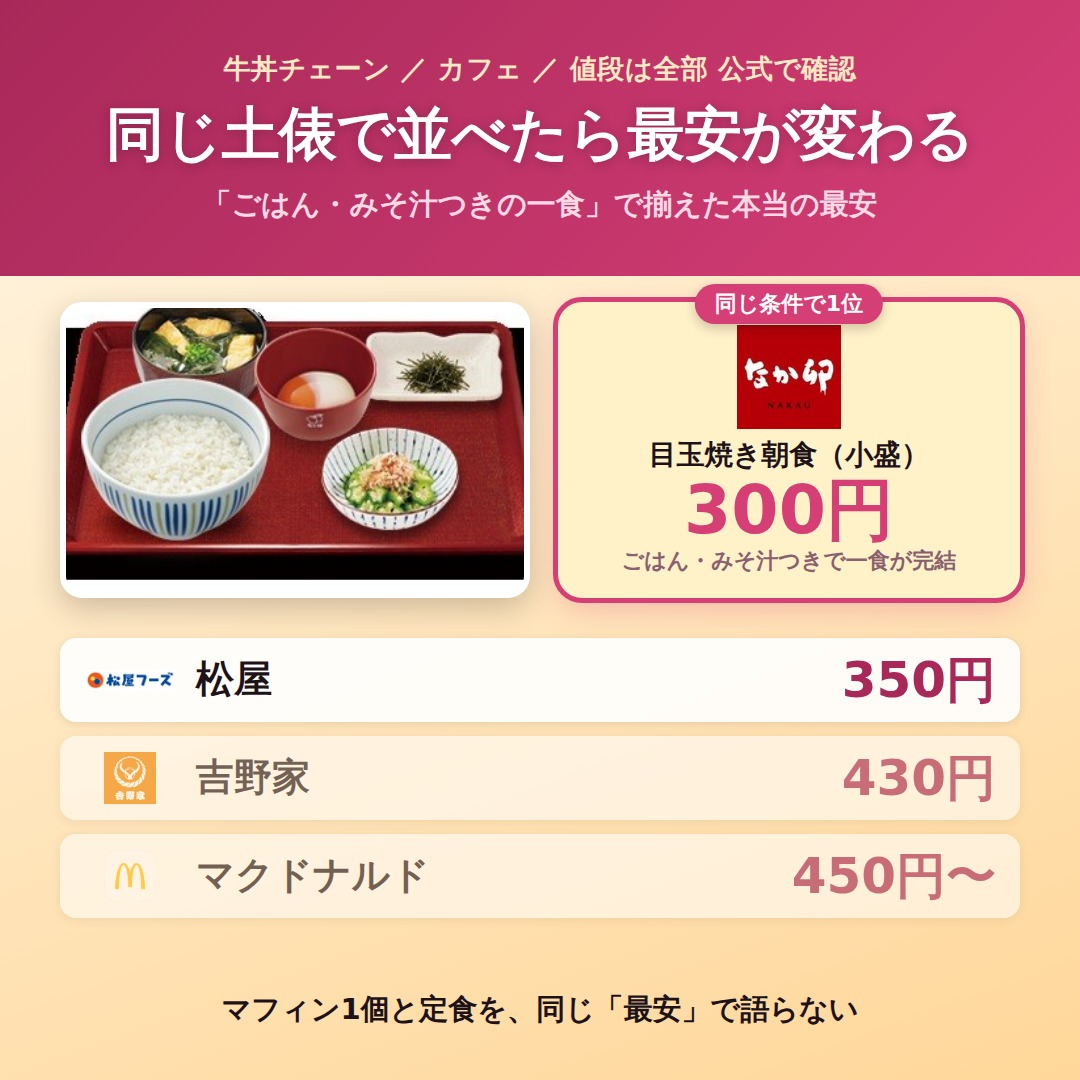
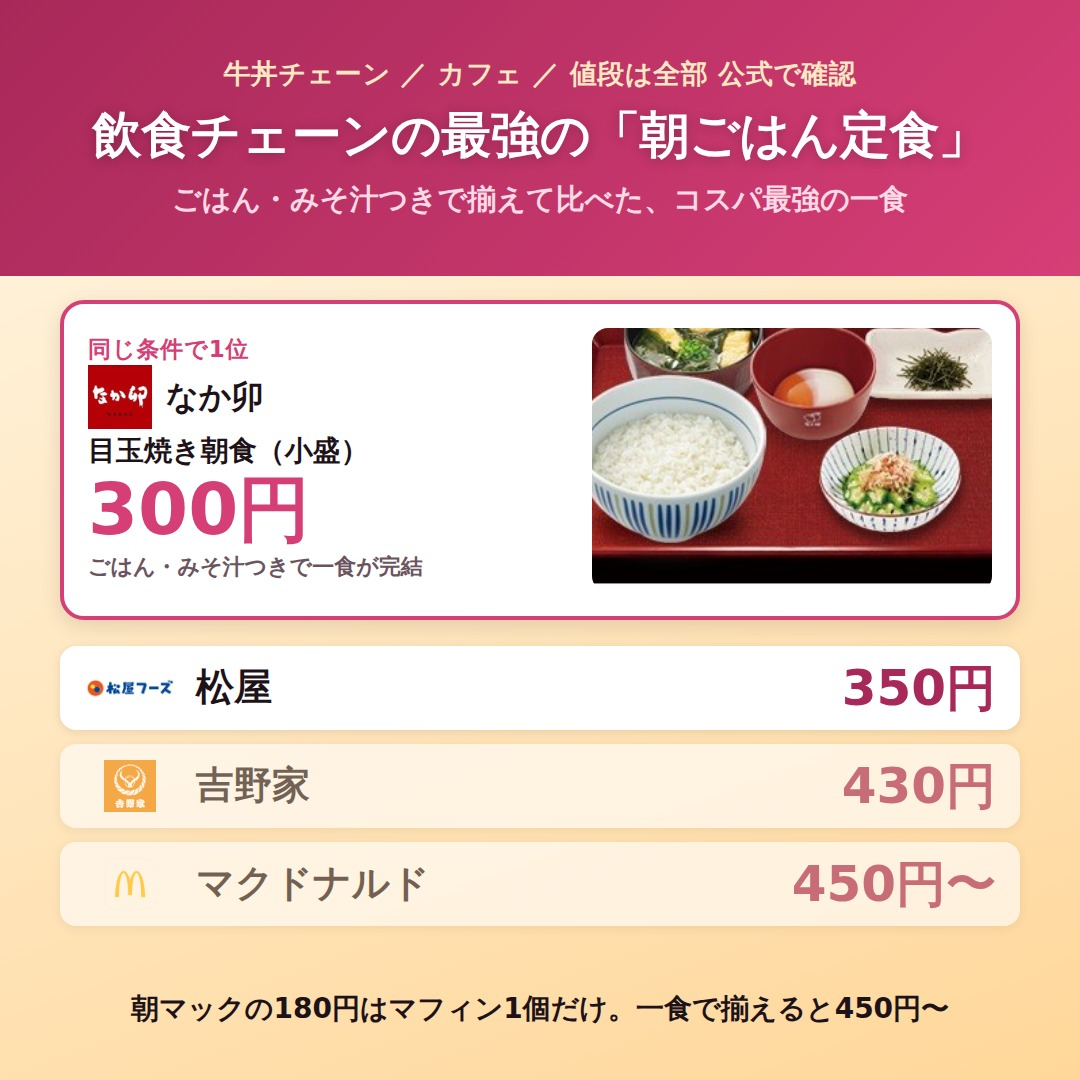
feat: 告知の表紙を作り直す（版A に確定・コメント 4 件）
レビューページのコメント 4 件（全部 `cover-a.jpg`）と、版A 採用の指示に対応した。

## 4 件の内訳

    同じ土俵で〜 は言いたいことが不明
    → 飲食チェーンの最強の「朝ごはん定食」 にして

    最安を知りたいわけじゃなくて、コスパがいい朝食を知りたいんだよ

    デザインがダサすぎる／左右のパーツを交換して／他のサービスと一致してないでしょ
    情報設計ちゃんとして／松屋のカードと同じように、大きな白いカードの中に
    ロゴや文章など全てまとめるようデザインにして
    カード内は色つけなくていいよ。枠線つけてるんだから白の背景で十分

    これ言いたいことわからないから、文章変更して（下端の一文）

## 直したところ

- **見出しを読む人の言葉にした。** 「同じ土俵で並べた」はこちらが何をしたかの説明
- **最安 → コスパ。** 帯の副題を差し替えた
- **1 位も 2 位以下と同じ白いカードにした。** 黄色い地・外に浮く丸バッジ・
  隣に置いていた別パネルの写真を全部やめ、**1 枚のカードの中に
  ロゴ・ブランド名・品名・価格・実写を収めた。** 強調は枠線と大きさだけ
- 2 位以下の行も地を純白にして揃えた
- 下端は「マフィン1個と定食を、同じ『最安』で語らない」→
  **「朝マックの180円はマフィン1個だけ。一食で揃えると450円〜」**。
  言い回しではなく、マクドナルドが最下位になる理由を書いた

## 版B を削除した

利用者が版A（実写あり）を選んだので `x/cover-b.jpg` と JSON の該当ブロックを消した。
**なか卯の実写は「公式サイト（引用）」で権利表記が要る素材**である点は
`_note` に残してある。写真を外すなら版B の作りに戻せばよい。

## 文面もコスパ寄りに書き直した

1 投稿目で答え（なか卯300円）まで言い切る形にした。
画像が答えを出しているため、「↓↓」で引っぱる型とは両立しない。

    [1/2] 重み 256（余裕 24）
    [2/2] 重み 241（余裕 39）

## 実写の切り方

パネルと元画像の縦横比が同じだと `object-fit: cover` に切りしろが無く、
`object-position` が効かない。**パネルを横長にしたうえで `zoom` 1.3 で寄せ**、
素材の地の暗い縁を落とした。

## 状態

**未投稿。** レビューページ Version 17、コメント 4 件は done。
**画像を見たうえでの承認が要る**（最上位ルール 4）。

## 費用

**画像生成もページ更新も LLM を呼ばない。**
1 回 **$0** / 1 日 **$0** / 1 か月 **$0**。

Claude-Session: https://claude.ai/code/session_01H2JQqdMCeKNiMVUTrAyX2t

diff --git a/scripts/image-review/page.html b/scripts/image-review/page.html
@@ -245,16 +245,14 @@
       ]
     },
     {
-      // **未投稿。** 2026-09-22 に新規作成（矢印で切る型の初適用）。
-      // **同日のコメント 5 件で 4 枚 → 1 枚にした。**
-      //   「この内容を表紙っぽくして整えて。他の画像は全部いらない。画像は1枚だけで良い。」
-      //   「なか卯の朝ごはん定食の画像は欲しいので添付してね。」
-      // **A と B は二択。** A の実写は「公式サイト（引用）」で権利表記が要る素材のため、
-      // 出所の行を出さない方針（最上位ルール 8）と両立しない。B は表記が要らない素材だけ
+      // **未投稿。** 2026-09-22 に新規作成し、同日のコメント 9 件で 2 度 作り直した。
+      //   1 度目（5 件）: 4 枚 → 1 枚。「表紙っぽくして整えて」「なか卯の実写を入れて」
+      //   2 度目（4 件）: 見出しを「飲食チェーンの最強の『朝ごはん定食』」に。
+      //                   **最安ではなくコスパ。** 左右を入れ替え、
+      //                   **白いカード 1 枚**にロゴ・文章・写真を全部 収める（色は敷かない）
       key: "morning", title: "500円モーニング 2026", slug: "morning-500-2026",
       images: [
-        { file: "cover-a.jpg", name: "版A（なか卯の実写あり）", cap: "同じ土俵で並べたら最安が変わる" },
-        { file: "cover-b.jpg", name: "版B（ロゴのみ）",         cap: "同じ土俵で並べたら最安が変わる" }
+        { file: "cover-a.jpg", name: "表紙（1枚）", cap: "飲食チェーンの最強の「朝ごはん定食」" }
       ]
     }
   ];

diff --git a/.claude/skills/x-post-images/SKILL.md b/.claude/skills/x-post-images/SKILL.md
@@ -264,6 +264,8 @@ cat public/images/<slug>/photos/_manifest.json
 | 2026-09-22 | **なか卯の朝ごはん定食の画像は欲しいので添付してね。いつもの投稿のスタイルみたいに上手くデザイン作って** | **§3 と正面からぶつかった。** この記事の `photos/` は 15 枚 とも「公式サイト（引用）」で、**出所表記が要る素材**。消すだけではライセンス違反になる。**勝手にどちらかへ倒さず、写真あり（版A）と写真なし（版B）を両方 作って選んでもらった。** 規定と指示が衝突したら、**黙って片方を選ばない** |
 | 2026-09-22 | **実写パネルの上下に元画像の黒い縁が残った**（自分で気づいた） | **パネルと元画像の縦横比が同じだと `object-fit: cover` に切りしろが無く、`object-position` が効かない。** パネルを元より横長にして初めて上下が切れる。`zoom`（`transform: scale`）も足したが、**384px の素材では 1.3 倍を超えるとぼやける** |
 | 2026-09-22 | **1 位の札から説明文がはみ出した**（自分で気づいた） | 札の中身は **ロゴの高さ＋名前＋価格＋補足**の合計で決まる。**ロゴが正方形なら `logoW` がそのまま高さになる**（`nakau.jpg` は 1:1 で、150 指定が 150px の高さになっていた）。**幅ではなく合計の高さで見積もる** |
+| 2026-09-22 | **デザインがダサすぎる／他のサービスと一致してないでしょ／情報設計ちゃんとして／松屋のカードと同じように、大きな白いカードの中にロゴや文章など全てまとめるようデザインにして／カード内は色つけなくていいよ。枠線つけてるんだから白の背景で十分** | **1 位だけ別の作り（黄色い地・外に浮く丸バッジ・写真は隣の別パネル）にしていたのが原因。** 2 位以下は白いカードに「ロゴ→名前→価格」で並んでいるのに、1 位だけ別物になっていた。**1 位も同じ白いカードにして、ロゴ・文章・実写を全部その中に入れた。** 強調は**枠線と大きさだけ**でつける。**地に色を敷かない。** 1 位を目立たせたくなったら、まず色ではなく面積を疑う |
+| 2026-09-22 | **「同じ土俵で〜」は言いたいことが不明／最安を知りたいわけじゃなくて、コスパがいい朝食を知りたいんだよ／これ言いたいことわからないから、文章変更して** | **見出しに「こちらの工夫」を書いていた。**「同じ土俵で並べた」はこちらが何をしたかの説明で、読む人が欲しい答えではない。**読む人の言葉に直す**（＝「飲食チェーンの最強の『朝ごはん定食』」「コスパ」）。2026-09-20 の「『並べた』って言葉が短絡的すぎる」と**同じ指摘を 2 回 受けている**。下端の一文も同じで、**言い回しの妙を狙わず、順位がそうなる理由を書く** |
 <!-- 追記はこの表の下に。日付・指摘・反映 の 3 列を必ず埋める -->
 
 ## 7. 関連
